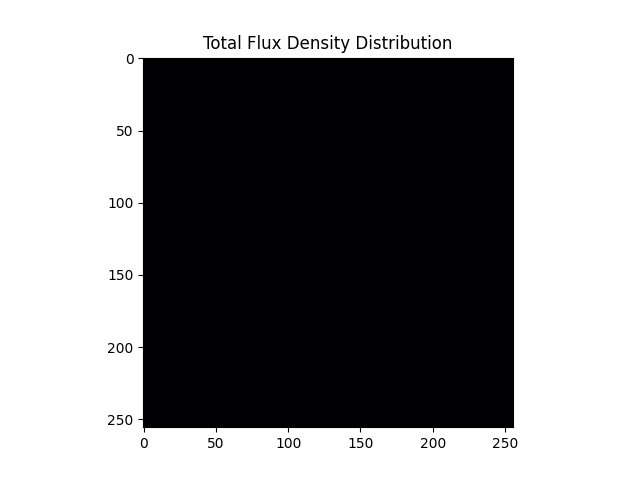
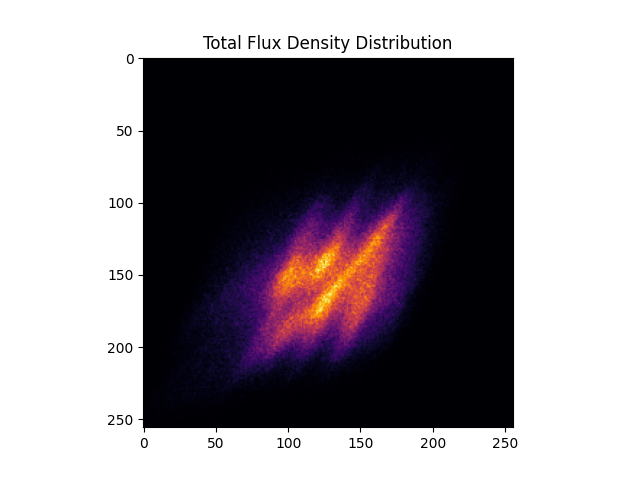
change incoming ray direction

Changed region(s): [[0.2812, 0.3438, 0.6875, 0.8125]]

diff --git a/tutorials/04_heliostat_raytracing_multi_pos.py b/tutorials/04_heliostat_raytracing_multi_pos.py
@@ -40,7 +40,7 @@ targets_dict = {target.name: target for target in scenario.target_areas.target_a
 
 print("Init aim points:", scenario.heliostat_field.all_aim_points)
 new_aim_points = torch.tensor(data=[
-    targets_dict['receiver'].center.tolist(),
+    targets_dict['multi_focus_tower'].center.tolist(),
     targets_dict['receiver'].center.tolist()
 ], device=device)
 
@@ -49,7 +49,7 @@ scenario.heliostat_field.all_aim_points = new_aim_points
 print("New aim points:", scenario.heliostat_field.all_aim_points)
 
 # Use south sun position
-incident_ray_direction_south = torch.tensor([0.0, -1.0, 0.0, 0.0], device=device)
+incident_ray_direction_south = torch.tensor([0.0, 1.0, 0.0, 0.0], device=device)
 # Align all heliostats
 scenario.heliostat_field.align_surfaces_with_incident_ray_direction(
     incident_ray_direction=incident_ray_direction_south,
@@ -63,7 +63,7 @@ raytracer = HeliostatRayTracer(
 # Perform heliostat-based raytracing.
 final_bitmap = raytracer.trace_rays(
     incident_ray_direction=incident_ray_direction_south,
-    target_area=targets_dict['receiver'],
+    target_area=targets_dict['multi_focus_tower'],
     device=device
 )
 print(final_bitmap.max())
@@ -73,7 +73,7 @@ plt.title(f"Flux Density Distribution from rank (heliostat): {rank}")
 plt.savefig(f"AA_new_rank_{rank}_{device.type}.png")
 
 final_bitmap = raytracer.normalize_bitmap(final_bitmap,
-                                          targets_dict['receiver']
+                                          targets_dict['multi_focus_tower']
                                           )
 
 plt.imshow(final_bitmap.cpu().detach(), cmap="inferno")
